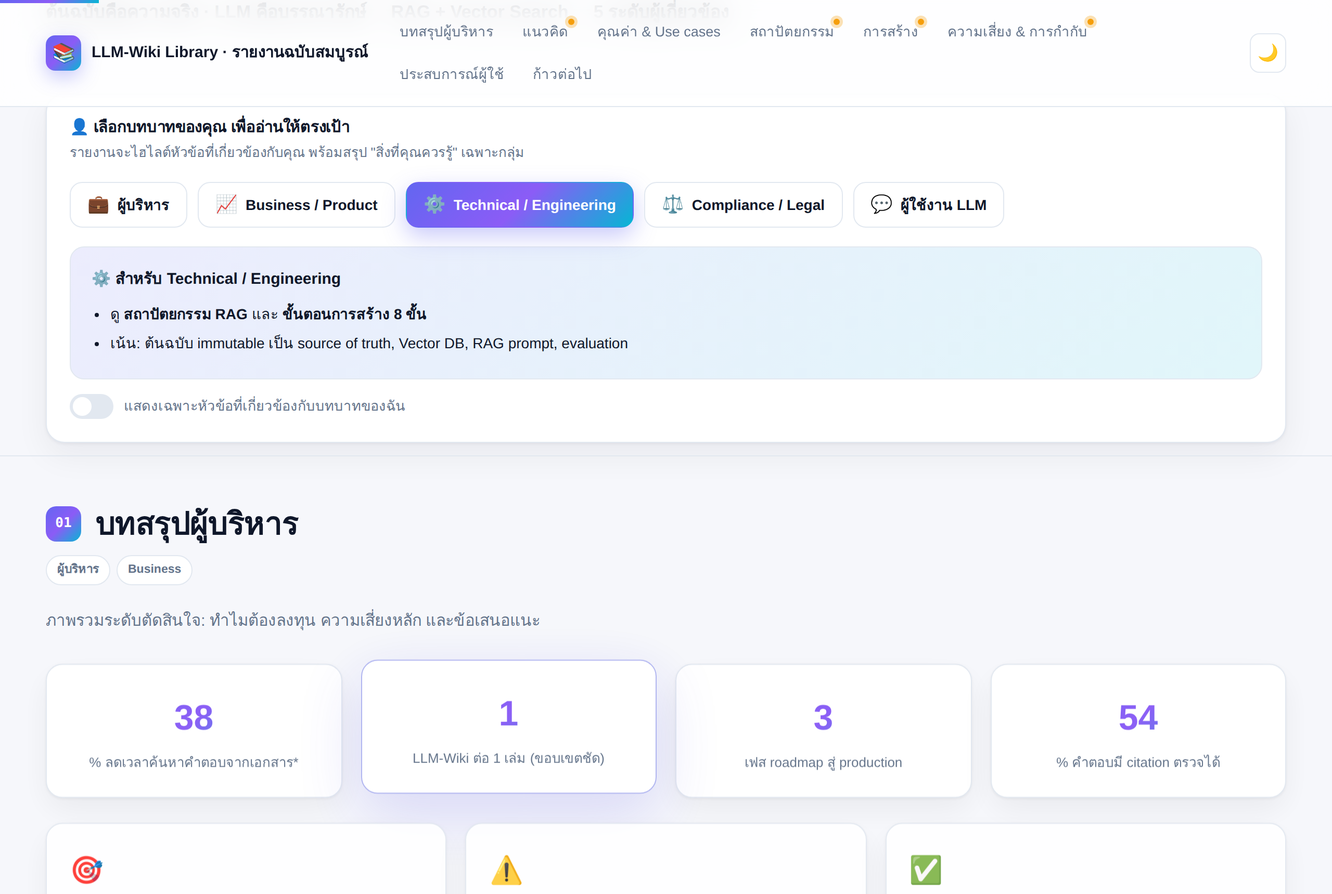
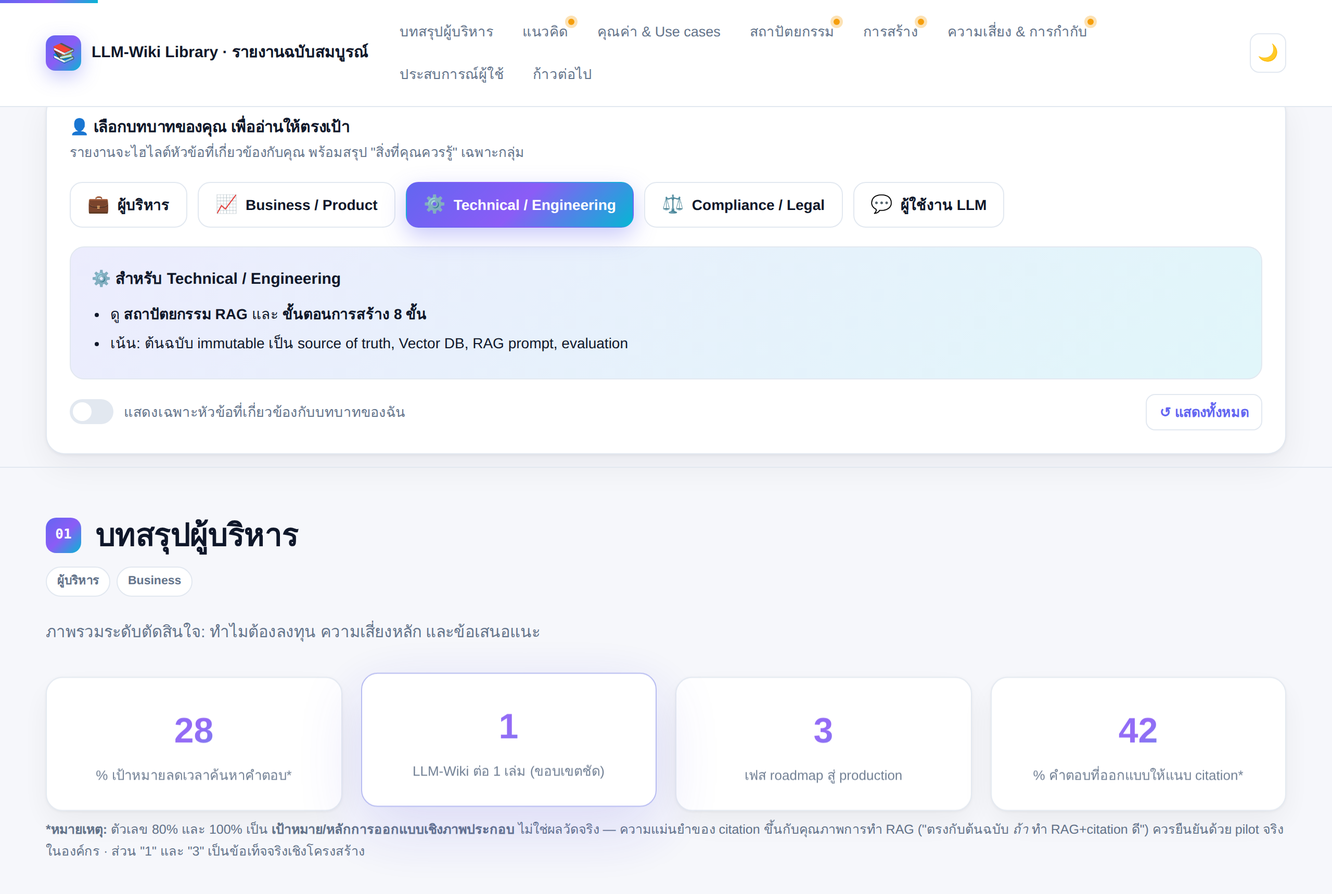
Apply review-debate consensus fixes to HTML report
จากการ debate ของ 2 ทีมรีวิว (Ship It vs Red Team) แก้ตาม consensus list:

Blockers:
- เลิกอ้าง 'ตรวจสอบย้อนได้ 100%' ใน exec callout (ขัด source ที่ระบุเป็นเงื่อนไข)
- KPI relabel เป็นเป้าหมาย/หลักการออกแบบ + ใส่ asterisk ทั้ง 80% และ 100%
  พร้อม disclaimer ที่ย้ายมาชิดใต้ KPI และอธิบายเงื่อนไข RAG/citation
- กันหน้าขาวเมื่อ JS ไม่รัน: เปลี่ยน .reveal เป็น .js-ready .reveal
  (เนื้อหาแสดงเป็นค่าเริ่มต้น) + ครอบ localStorage ด้วย try/catch

Accessibility:
- aria-pressed บน role chips + theme toggle, aria-expanded บนเมนู
- aria-live='polite'/role='status' บน role callout
- role='img' + <title>/<desc> บน SVG diagram
- aria-label ค่าจริงบน KPI counters, :focus-visible ทุก control

UX/robustness:
- เพิ่มปุ่ม 'แสดงทั้งหมด/Reset' ข้าง filter toggle
- prefers-reduced-motion + @supports fallback (color-mix/backdrop-filter)
- print rule บังคับ .reveal ให้แสดง (กัน section ใต้ fold หาย)

Content integrity:
- 'วิธีแก้ที่พิสูจน์แล้ว' -> 'นำไปปฏิบัติได้'
- 'มั่นใจได้ว่าไม่มั่ว' -> 'ลดการมั่วได้จริง'
- แก้คำกล่าวอ้าง offline ใน footer + README ให้ตรงจริง

QA ผ่าน: no-JS content visible, aria states, reset restores all sections;
อัปเดต screenshots

diff --git a/report/index.html b/report/index.html
@@ -105,6 +105,13 @@ main{padding-top:74px}
 .slider::before{content:'';position:absolute;height:18px;width:18px;left:3px;top:3px;background:#fff;border-radius:50%;transition:.3s}
 .switch input:checked+.slider{background:var(--accent)}
 .switch input:checked+.slider::before{transform:translateX(18px)}
+.switch input:focus-visible+.slider{outline:2px solid var(--accent);outline-offset:2px}
+.reset-btn{margin-left:auto;font-family:inherit;font-size:13px;font-weight:600;color:var(--accent);
+  background:var(--bg-2);border:1px solid var(--border);border-radius:9px;padding:6px 12px;cursor:pointer;transition:all .2s}
+.reset-btn:hover{border-color:var(--accent);background:var(--grad-soft)}
+/* visible keyboard focus for all interactive controls (a11y) */
+a:focus-visible,button:focus-visible,input:focus-visible,summary:focus-visible{
+  outline:2px solid var(--accent);outline-offset:2px;border-radius:6px}
 
 /* ============ SECTION ============ */
 .sec{padding:46px 0;border-top:1px solid var(--border)}
@@ -190,10 +197,22 @@ tbody tr:hover{background:var(--grad-soft)}
 .acc .body .risk{color:var(--rose);font-weight:600}
 .acc .body .fix{color:var(--green);font-weight:600}
 
-/* reveal anim */
-.reveal{opacity:0;transform:translateY(24px);transition:opacity .6s,transform .6s}
+/* reveal anim — JS adds .js-ready so content is VISIBLE by default (no-JS safe) */
+.js-ready .reveal{opacity:0;transform:translateY(24px);transition:opacity .6s,transform .6s}
 .reveal.in{opacity:1;transform:none}
 @keyframes fade{from{opacity:0;transform:translateY(8px)}to{opacity:1;transform:none}}
+/* respect motion preferences */
+@media(prefers-reduced-motion:reduce){
+  *{animation-duration:.001ms!important;transition-duration:.001ms!important;scroll-behavior:auto!important}
+  .js-ready .reveal{opacity:1;transform:none}
+}
+/* graceful fallback for browsers without color-mix/backdrop-filter */
+@supports not (color-mix(in srgb,#000 50%,#fff)){
+  nav{background:var(--bg-2)}
+}
+@supports not ((backdrop-filter:blur(1px)) or (-webkit-backdrop-filter:blur(1px))){
+  nav{background:var(--bg-2)}
+}
 
 /* footer */
 footer{border-top:1px solid var(--border);padding:40px 0;margin-top:30px;color:var(--muted);font-size:14px}
@@ -223,6 +242,7 @@ footer{border-top:1px solid var(--border);padding:40px 0;margin-top:30px;color:v
 @media print{
   nav,#progress,.role-bar,.cta,footer .foot-grid > :last-child{display:none}
   .sec.dim{display:block!important;opacity:1!important} body{background:#fff}
+  .js-ready .reveal,.reveal{opacity:1!important;transform:none!important}
   .card,.diagram,.tbl-wrap{box-shadow:none;break-inside:avoid}
 }
 </style>
@@ -244,8 +264,8 @@ footer{border-top:1px solid var(--border);padding:40px 0;margin-top:30px;color:v
       <a href="#user" data-aud="user business">ประสบการณ์ผู้ใช้</a>
       <a href="#next" data-aud="exec business">ก้าวต่อไป</a>
     </div>
-    <button class="icon-btn menu-toggle" id="menuToggle" aria-label="เมนู">☰</button>
-    <button class="icon-btn" id="themeToggle" aria-label="สลับธีม">🌙</button>
+    <button class="icon-btn menu-toggle" id="menuToggle" aria-label="เปิด/ปิดเมนู" aria-expanded="false" aria-controls="navLinks">☰</button>
+    <button class="icon-btn" id="themeToggle" aria-label="สลับธีมสว่าง/มืด" aria-pressed="false">🌙</button>
   </div>
 </nav>
 
@@ -270,17 +290,18 @@ footer{border-top:1px solid var(--border);padding:40px 0;margin-top:30px;color:v
   <div class="role-bar reveal">
     <h3>👤 เลือกบทบาทของคุณ เพื่ออ่านให้ตรงเป้า</h3>
     <p class="sub">รายงานจะไฮไลต์หัวข้อที่เกี่ยวข้องกับคุณ พร้อมสรุป "สิ่งที่คุณควรรู้" เฉพาะกลุ่ม</p>
-    <div class="role-chips" id="roleChips">
-      <button class="chip" data-role="exec"><span class="ico">💼</span>ผู้บริหาร</button>
-      <button class="chip" data-role="business"><span class="ico">📈</span>Business / Product</button>
-      <button class="chip" data-role="tech"><span class="ico">⚙</span>Technical / Engineering</button>
-      <button class="chip" data-role="legal"><span class="ico">⚖</span>Compliance / Legal</button>
-      <button class="chip" data-role="user"><span class="ico">💬</span>ผู้ใช้งาน LLM</button>
+    <div class="role-chips" id="roleChips" role="group" aria-label="เลือกบทบาทผู้อ่าน">
+      <button class="chip" data-role="exec" aria-pressed="false"><span class="ico" aria-hidden="true">💼</span>ผู้บริหาร</button>
+      <button class="chip" data-role="business" aria-pressed="false"><span class="ico" aria-hidden="true">📈</span>Business / Product</button>
+      <button class="chip" data-role="tech" aria-pressed="false"><span class="ico" aria-hidden="true">⚙</span>Technical / Engineering</button>
+      <button class="chip" data-role="legal" aria-pressed="false"><span class="ico" aria-hidden="true">⚖</span>Compliance / Legal</button>
+      <button class="chip" data-role="user" aria-pressed="false"><span class="ico" aria-hidden="true">💬</span>ผู้ใช้งาน LLM</button>
     </div>
-    <div id="roleCallout"></div>
+    <div id="roleCallout" aria-live="polite" role="status"></div>
     <div class="filter-row" id="filterRow" style="display:none">
       <label class="switch"><input type="checkbox" id="filterToggle"><span class="slider"></span></label>
       <span>แสดงเฉพาะหัวข้อที่เกี่ยวข้องกับบทบาทของฉัน</span>
+      <button class="reset-btn" id="roleReset" type="button">↺ แสดงทั้งหมด</button>
     </div>
   </div>
 </div>
@@ -291,19 +312,23 @@ footer{border-top:1px solid var(--border);padding:40px 0;margin-top:30px;color:v
     <div class="sec-head"><span class="sec-num">01</span><h2>บทสรุปผู้บริหาร</h2></div>
     <div class="aud-tags"><span class="aud-tag" data-a="exec">ผู้บริหาร</span><span class="aud-tag" data-a="business">Business</span></div>
     <p class="desc">ภาพรวมระดับตัดสินใจ: ทำไมต้องลงทุน ความเสี่ยงหลัก และข้อเสนอแนะ</p>
-    <div class="grid g4 reveal" style="margin-bottom:22px">
-      <div class="card kpi"><div class="num" data-count="80">0</div><div class="lbl">% ลดเวลาค้นหาคำตอบจากเอกสาร*</div></div>
+    <div class="grid g4 reveal" style="margin-bottom:10px">
+      <div class="card kpi"><div class="num" data-count="80">0</div><div class="lbl">% เป้าหมายลดเวลาค้นหาคำตอบ*</div></div>
       <div class="card kpi"><div class="num" data-count="1">0</div><div class="lbl">LLM-Wiki ต่อ 1 เล่ม (ขอบเขตชัด)</div></div>
       <div class="card kpi"><div class="num" data-count="3">0</div><div class="lbl">เฟส roadmap สู่ production</div></div>
-      <div class="card kpi"><div class="num" data-count="100">0</div><div class="lbl">% คำตอบมี citation ตรวจได้</div></div>
+      <div class="card kpi"><div class="num" data-count="100">0</div><div class="lbl">% คำตอบที่ออกแบบให้แนบ citation*</div></div>
     </div>
+    <p style="font-size:12.5px;color:var(--muted);margin:0 0 22px">
+      <strong>*หมายเหตุ:</strong> ตัวเลข 80% และ 100% เป็น <strong>เป้าหมาย/หลักการออกแบบเชิงภาพประกอบ</strong>
+      ไม่ใช่ผลวัดจริง — ความแม่นยำของ citation ขึ้นกับคุณภาพการทำ RAG ("ตรงกับต้นฉบับ <em>ถ้า</em> ทำ RAG+citation ดี")
+      ควรยืนยันด้วย pilot จริงในองค์กร · ส่วน "1" และ "3" เป็นข้อเท็จจริงเชิงโครงสร้าง
+    </p>
     <div class="grid g3 reveal">
       <div class="card"><span class="ci">🎯</span><h4>โอกาส</h4><p>เปลี่ยนคลังความรู้องค์กร (คู่มือ, นโยบาย, งานวิจัย) ให้พนักงานถาม-ตอบได้ทันที ลดเวลาหาข้อมูลและการพึ่งผู้เชี่ยวชาญ</p></div>
-      <div class="card"><span class="ci">⚠</span><h4>ความเสี่ยงที่ต้องคุม</h4><p>การมั่ว (hallucination), ที่มาของคำตอบ (provenance), ลิขสิทธิ์ และความเป็นส่วนตัว — ทั้งหมดมีวิธีแก้ที่พิสูจน์แล้ว</p></div>
+      <div class="card"><span class="ci">⚠</span><h4>ความเสี่ยงที่ต้องคุม</h4><p>การมั่ว (hallucination), ที่มาของคำตอบ (provenance), ลิขสิทธิ์ และความเป็นส่วนตัว — ทั้งหมดมีวิธีแก้ที่นำไปปฏิบัติได้</p></div>
       <div class="card"><span class="ci">✅</span><h4>ข้อเสนอแนะ</h4><p>เริ่มจาก pilot บนคอลเลกชันที่ลิขสิทธิ์ชัดเจน ใช้สถาปัตยกรรม RAG + citation บังคับ แล้วขยายเมื่อผ่าน eval</p></div>
     </div>
     <div class="callout key reveal"><strong>Bottom line:</strong> เทคโนโลยีพร้อมและความเสี่ยงจัดการได้ คุณค่าหลักคือ "การเข้าถึงความรู้แบบสนทนา" บนฐานที่ตรวจสอบย้อนกลับได้ — ลงทุนแบบ pilot ก่อน ความเสี่ยงต่ำ ผลตอบแทนชัด</div>
-    <p style="font-size:12px;color:var(--muted);margin-top:12px">*ตัวเลขเชิงภาพประกอบเพื่อการสื่อสาร ควรยืนยันด้วย pilot จริงในองค์กร</p>
   </div>
 </section>
 
@@ -357,7 +382,10 @@ footer{border-top:1px solid var(--border);padding:40px 0;margin-top:30px;color:v
     <p class="desc">แทนที่จะให้ LLM "ตอบจากความจำ" (มั่ว/ล้าสมัยได้) เราให้มัน <strong>ดึงข้อความจริงจากเล่มก่อน แล้วค่อยตอบ</strong></p>
 
     <div class="diagram reveal" style="margin-bottom:24px">
-      <svg viewBox="0 0 760 150" width="100%" style="max-width:760px;display:block;margin:0 auto" font-family="var(--font-mono)">
+      <svg viewBox="0 0 760 150" width="100%" style="max-width:760px;display:block;margin:0 auto" font-family="var(--font-mono)"
+           role="img" aria-labelledby="ragTitle ragDesc">
+        <title id="ragTitle">ลำดับการทำงานของ RAG pipeline</title>
+        <desc id="ragDesc">คำถามผู้ใช้ → แปลงเป็น embedding และค้นด้วย vector search → ดึง chunks ที่เกี่ยวข้องจากต้นฉบับ → LLM สังเคราะห์คำตอบจากบริบท → ได้คำตอบพร้อม citation</desc>
         <defs><marker id="ah" markerWidth="9" markerHeight="9" refX="7" refY="3" orient="auto"><path d="M0,0 L7,3 L0,6 Z" fill="#8b5cf6"/></marker>
         <linearGradient id="gg" x1="0" y1="0" x2="1" y2="0"><stop offset="0" stop-color="#6366f1"/><stop offset="1" stop-color="#06b6d4"/></linearGradient></defs>
         <g font-size="12" fill="var(--text)" text-anchor="middle">
@@ -435,7 +463,7 @@ footer{border-top:1px solid var(--border);padding:40px 0;margin-top:30px;color:v
       <div class="card"><span class="ci">💬</span><h4>คุยกับหนังสือได้เหมือนคุยกับ agent</h4><p>ถามเป็นภาษาธรรมชาติ ("บทนี้สรุปว่าอะไร?", "เปรียบเทียบสองเล่มนี้ให้หน่อย") เหมือนสั่งงาน Claude Code แต่ขอบเขตคือเนื้อหาในเล่ม</p></div>
       <div class="card"><span class="ci">🔗</span><h4>ทุกคำตอบมี "อ้างอิง" คลิกได้</h4><p>ต่างจากแชตทั่วไป — คำตอบจะลิงก์กลับไปหน้าจริงในต้นฉบับ ทำให้เชื่อถือและตรวจสอบได้ ไม่ต้องเดาว่า AI เอามาจากไหน</p></div>
       <div class="card"><span class="ci">🧭</span><h4>เหมือนมี "บรรณารักษ์ส่วนตัว"</h4><p>ไม่ต้องรู้คำค้นที่ตรงเป๊ะ ถามตามความเข้าใจของคุณ ระบบจะค้นเชิงความหมายและพาไปยังเนื้อหาที่ใช่</p></div>
-      <div class="card"><span class="ci">🛡</span><h4>มั่นใจได้ว่าไม่มั่ว</h4><p>ถ้าเล่มนั้นไม่มีคำตอบ ระบบจะบอก "ไม่พบในเล่มนี้" แทนที่จะแต่งขึ้น — ต่างจาก LLM ทั่วไปที่อาจเดา</p></div>
+      <div class="card"><span class="ci">🛡</span><h4>ลดการมั่วได้จริง</h4><p>เมื่อออกแบบดี ถ้าเล่มนั้นไม่มีคำตอบ ระบบจะบอก "ไม่พบในเล่มนี้" แทนที่จะแต่งขึ้น — ต่างจาก LLM ทั่วไปที่อาจเดา</p></div>
     </div>
     <div class="callout reveal"><strong>เทียบกับ Claude Code / cowork agent:</strong> เครื่องมือเหล่านั้นทำงานบน "โค้ด/งานของคุณ" ส่วน LLM-Wiki ทำงานบน "คลังความรู้ที่ผ่านการคัดกรอง" — แนวคิด RAG + citation เบื้องหลังเหมือนกัน คือ <em>ดึงของจริงมาก่อน แล้วค่อยตอบ</em></div>
   </div>
@@ -504,22 +532,30 @@ footer{border-top:1px solid var(--border);padding:40px 0;margin-top:30px;color:v
       <div style="font-weight:700;color:var(--text);margin-bottom:4px">📚 ห้องสมุด LLM-Wiki · รายงานฉบับสมบูรณ์</div>
       <div>อ้างอิงเนื้อหาจาก <code>docs/llm-wiki-library.md</code> · ส่วนหนึ่งของโปรเจกต์ how-library-work</div>
     </div>
-    <div>สร้างเป็น single-file HTML · ทำงานออฟไลน์ได้ · รองรับ light/dark · พิมพ์เป็น PDF ได้</div>
+    <div>Single-file HTML · เนื้อหา/สคริปต์ฝังในไฟล์ (ฟอนต์โหลดจาก CDN เมื่อออนไลน์ ออฟไลน์ใช้ฟอนต์ระบบ) · รองรับ light/dark · พิมพ์เป็น PDF ได้</div>
   </div>
 </footer>
 
 <script>
+/* content is visible by default; enabling reveal animations only once JS runs */
+document.body.classList.add('js-ready');
+
+/* ===== SAFE STORAGE (guards private-mode / sandboxed file:// throws) ===== */
+const store={get(k){try{return localStorage.getItem(k);}catch(e){return null;}},
+  set(k,v){try{localStorage.setItem(k,v);}catch(e){/* storage unavailable — ignore */}}};
+
 /* ===== THEME ===== */
 const root=document.body, tBtn=document.getElementById('themeToggle');
-const savedT=localStorage.getItem('llmwiki-theme');
-if(savedT){root.setAttribute('data-theme',savedT);tBtn.textContent=savedT==='dark'?'☀':'🌙';}
-tBtn.onclick=()=>{const d=root.getAttribute('data-theme')==='dark'?'light':'dark';
-  root.setAttribute('data-theme',d);tBtn.textContent=d==='dark'?'☀':'🌙';localStorage.setItem('llmwiki-theme',d);};
+const savedT=store.get('llmwiki-theme');
+function applyTheme(d){root.setAttribute('data-theme',d);tBtn.textContent=d==='dark'?'☀':'🌙';
+  tBtn.setAttribute('aria-pressed',d==='dark');}
+if(savedT)applyTheme(savedT);
+tBtn.onclick=()=>{const d=root.getAttribute('data-theme')==='dark'?'light':'dark';applyTheme(d);store.set('llmwiki-theme',d);};
 
 /* ===== MOBILE MENU ===== */
-const navLinks=document.getElementById('navLinks');
-document.getElementById('menuToggle').onclick=()=>navLinks.classList.toggle('open');
-navLinks.querySelectorAll('a').forEach(a=>a.onclick=()=>navLinks.classList.remove('open'));
+const navLinks=document.getElementById('navLinks'), mBtn=document.getElementById('menuToggle');
+mBtn.onclick=()=>{const open=navLinks.classList.toggle('open');mBtn.setAttribute('aria-expanded',open);};
+navLinks.querySelectorAll('a').forEach(a=>a.onclick=()=>{navLinks.classList.remove('open');mBtn.setAttribute('aria-expanded',false);});
 
 /* ===== PROGRESS BAR ===== */
 const prog=document.getElementById('progress');
@@ -540,31 +576,37 @@ const rev=new IntersectionObserver(es=>es.forEach(e=>{if(e.isIntersecting){e.tar
   rev.unobserve(e.target);}}),{threshold:.15});
 document.querySelectorAll('.reveal').forEach(el=>rev.observe(el));
 
-/* ===== COUNTERS ===== */
+/* ===== COUNTERS (final value exposed to AT via aria-label; animation is decorative) ===== */
+document.querySelectorAll('[data-count]').forEach(el=>{
+  el.setAttribute('aria-label',el.dataset.count);el.setAttribute('role','text');});
 function runCount(el){if(el._done)return;el._done=1;const t=+el.dataset.count;let n=0;
   const step=Math.max(1,Math.ceil(t/40));const id=setInterval(()=>{n+=step;if(n>=t){n=t;clearInterval(id);}el.textContent=n;},22);}
 
 /* ===== ROLE SELECTOR ===== */
 const ROLE={
-  exec:{t:'💼 สำหรับผู้บริหาร',items:['ดู <b>บทสรุปผู้บริหาร</b> (โอกาส/ความเสี่ยง/ข้อเสนอแนะ) และ <b>ก้าวต่อไป</b>','เน้น: เริ่ม pilot ความเสี่ยงต่ำ ผลตอบแทนชัด ตรวจสอบย้อนได้ 100%']},
+  exec:{t:'💼 สำหรับผู้บริหาร',items:['ดู <b>บทสรุปผู้บริหาร</b> (โอกาส/ความเสี่ยง/ข้อเสนอแนะ) และ <b>ก้าวต่อไป</b>','เน้น: เริ่ม pilot ความเสี่ยงต่ำ ผลตอบแทนชัด ออกแบบให้ทุกคำตอบตรวจสอบย้อนกลับไปต้นฉบับได้']},
   business:{t:'📈 สำหรับ Business / Product',items:['ดู <b>คุณค่า & Use cases</b> และ <b>Roadmap 3 เฟส</b>','เน้น: เปลี่ยนข้อจำกัดหนังสือนิ่งเป็นความสามารถใหม่ และเส้นทางสู่ production']},
   tech:{t:'⚙ สำหรับ Technical / Engineering',items:['ดู <b>สถาปัตยกรรม RAG</b> และ <b>ขั้นตอนการสร้าง 8 ขั้น</b>','เน้น: ต้นฉบับ immutable เป็น source of truth, Vector DB, RAG prompt, evaluation']},
   legal:{t:'⚖ สำหรับ Compliance / Legal',items:['ดู <b>ความเสี่ยง & การกำกับดูแล</b>','เน้น: hallucination, provenance, ลิขสิทธิ์, privacy — ทุกข้อมีวิธีแก้ที่ปฏิบัติได้']},
-  user:{t:'💬 สำหรับผู้ใช้งาน LLM',items:['ดู <b>ประสบการณ์ผู้ใช้งาน</b>','เน้น: คุยกับหนังสือได้เหมือน agent แต่ทุกคำตอบมีอ้างอิงคลิกได้ และไม่มั่ว']}
+  user:{t:'💬 สำหรับผู้ใช้งาน LLM',items:['ดู <b>ประสบการณ์ผู้ใช้งาน</b>','เน้น: คุยกับหนังสือได้เหมือน agent แต่ทุกคำตอบมีอ้างอิงคลิกได้ และลดการมั่ว']}
 };
 let currentRole=null;
+const chips=[...document.querySelectorAll('#roleChips .chip')];
 const callout=document.getElementById('roleCallout'), filterRow=document.getElementById('filterRow'),
-      filterToggle=document.getElementById('filterToggle');
-document.querySelectorAll('#roleChips .chip').forEach(c=>c.onclick=()=>{
+      filterToggle=document.getElementById('filterToggle'), resetBtn=document.getElementById('roleReset');
+function clearRole(){currentRole=null;chips.forEach(x=>{x.classList.remove('active');x.setAttribute('aria-pressed',false);});
+  callout.classList.remove('show');callout.innerHTML='';filterRow.style.display='none';
+  filterToggle.checked=false;highlight();}
+chips.forEach(c=>c.onclick=()=>{
   const r=c.dataset.role;
-  document.querySelectorAll('#roleChips .chip').forEach(x=>x.classList.remove('active'));
-  if(currentRole===r){currentRole=null;callout.classList.remove('show');filterRow.style.display='none';
-    filterToggle.checked=false;applyFilter();return;}
-  currentRole=r;c.classList.add('active');
+  if(currentRole===r){clearRole();return;}
+  currentRole=r;
+  chips.forEach(x=>{const on=x===c;x.classList.toggle('active',on);x.setAttribute('aria-pressed',on);});
   const d=ROLE[r];callout.innerHTML='<div class="ctitle">'+d.t+'</div><ul>'+d.items.map(i=>'<li>'+i+'</li>').join('')+'</ul>';
   callout.classList.add('show');filterRow.style.display='flex';
   highlight();
 });
+if(resetBtn)resetBtn.onclick=clearRole;
 function highlight(){
   /* nav recommended dots */
   links.forEach(l=>{const a=(l.dataset.aud||'').split(' ');l.classList.toggle('rec',currentRole&&a.includes(currentRole));});

diff --git a/README.md b/README.md
@@ -19,7 +19,8 @@
   (ผู้บริหาร, Business/Product, Technical, Compliance/Legal, ผู้ใช้งาน LLM)
   มี Role Selector, dark mode, diagram, และพิมพ์เป็น PDF ได้
 
-  > เปิดใช้งาน: เปิดไฟล์ `report/index.html` ในเบราว์เซอร์ (ทำงานออฟไลน์ได้)
+  > เปิดใช้งาน: เปิดไฟล์ `report/index.html` ในเบราว์เซอร์ (เนื้อหา/สคริปต์ฝังในไฟล์
+  > ใช้งานได้แม้ออฟไลน์ ส่วนฟอนต์โหลดจาก CDN เมื่อออนไลน์ ถ้าออฟไลน์จะใช้ฟอนต์ระบบ)
   > หรือ host เป็น GitHub Pages เพื่อแชร์ลิงก์ในองค์กร
 
 ### ตัวอย่างหน้าจอ (Screenshots)
